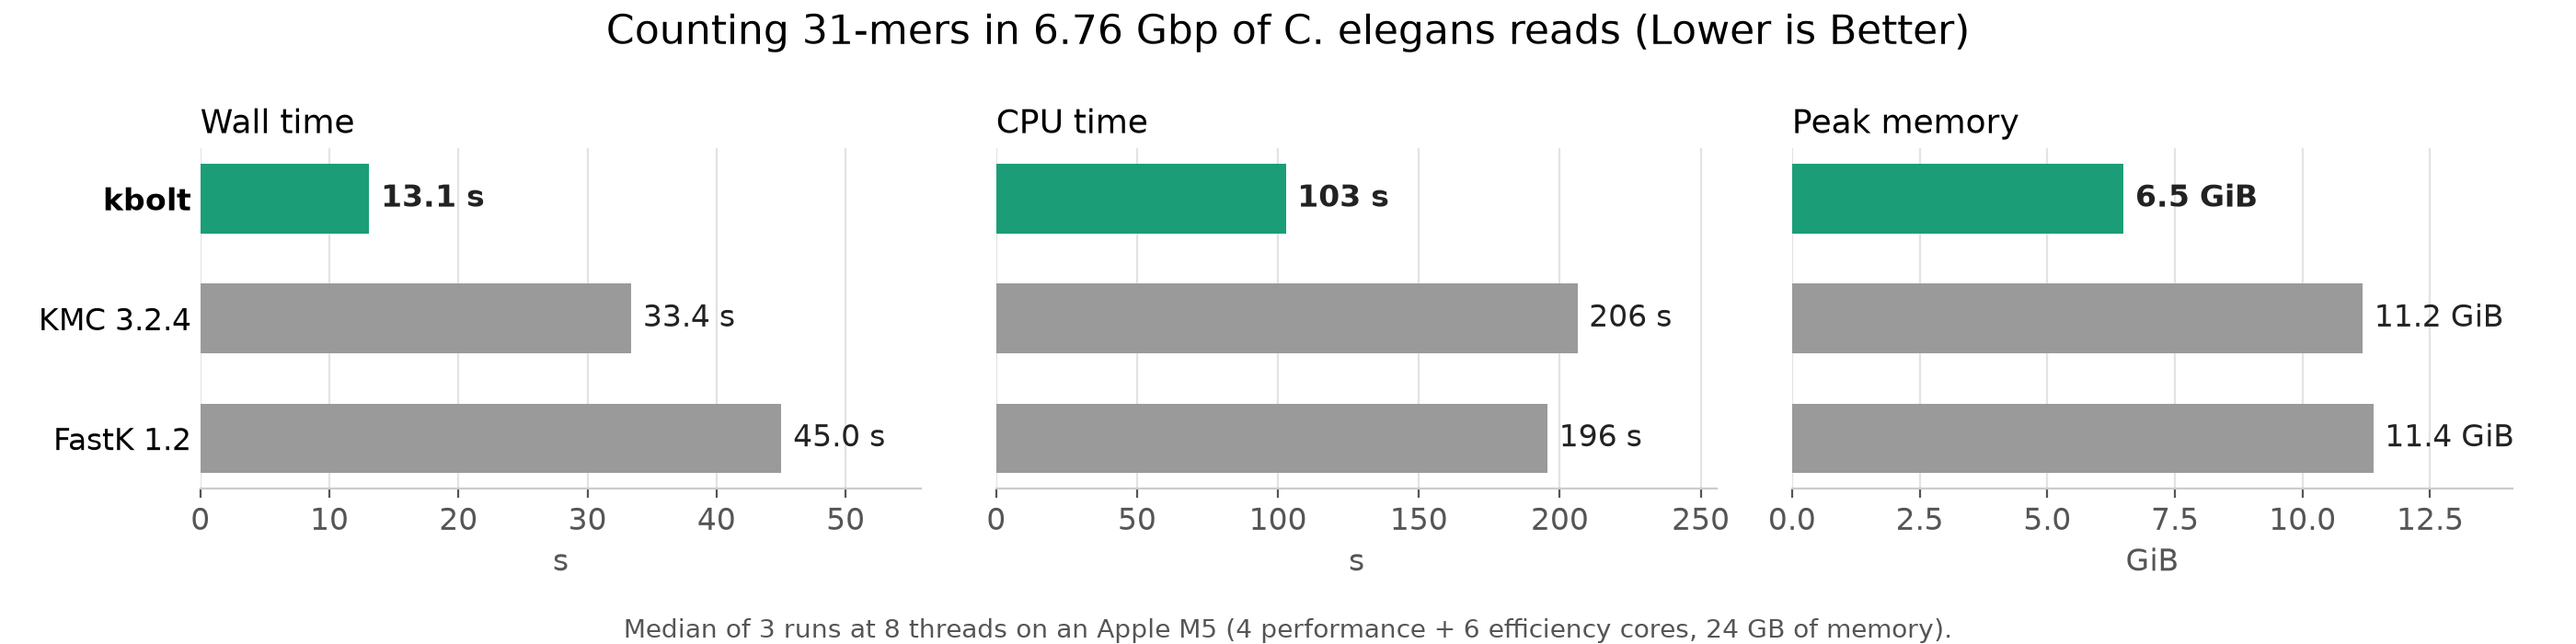
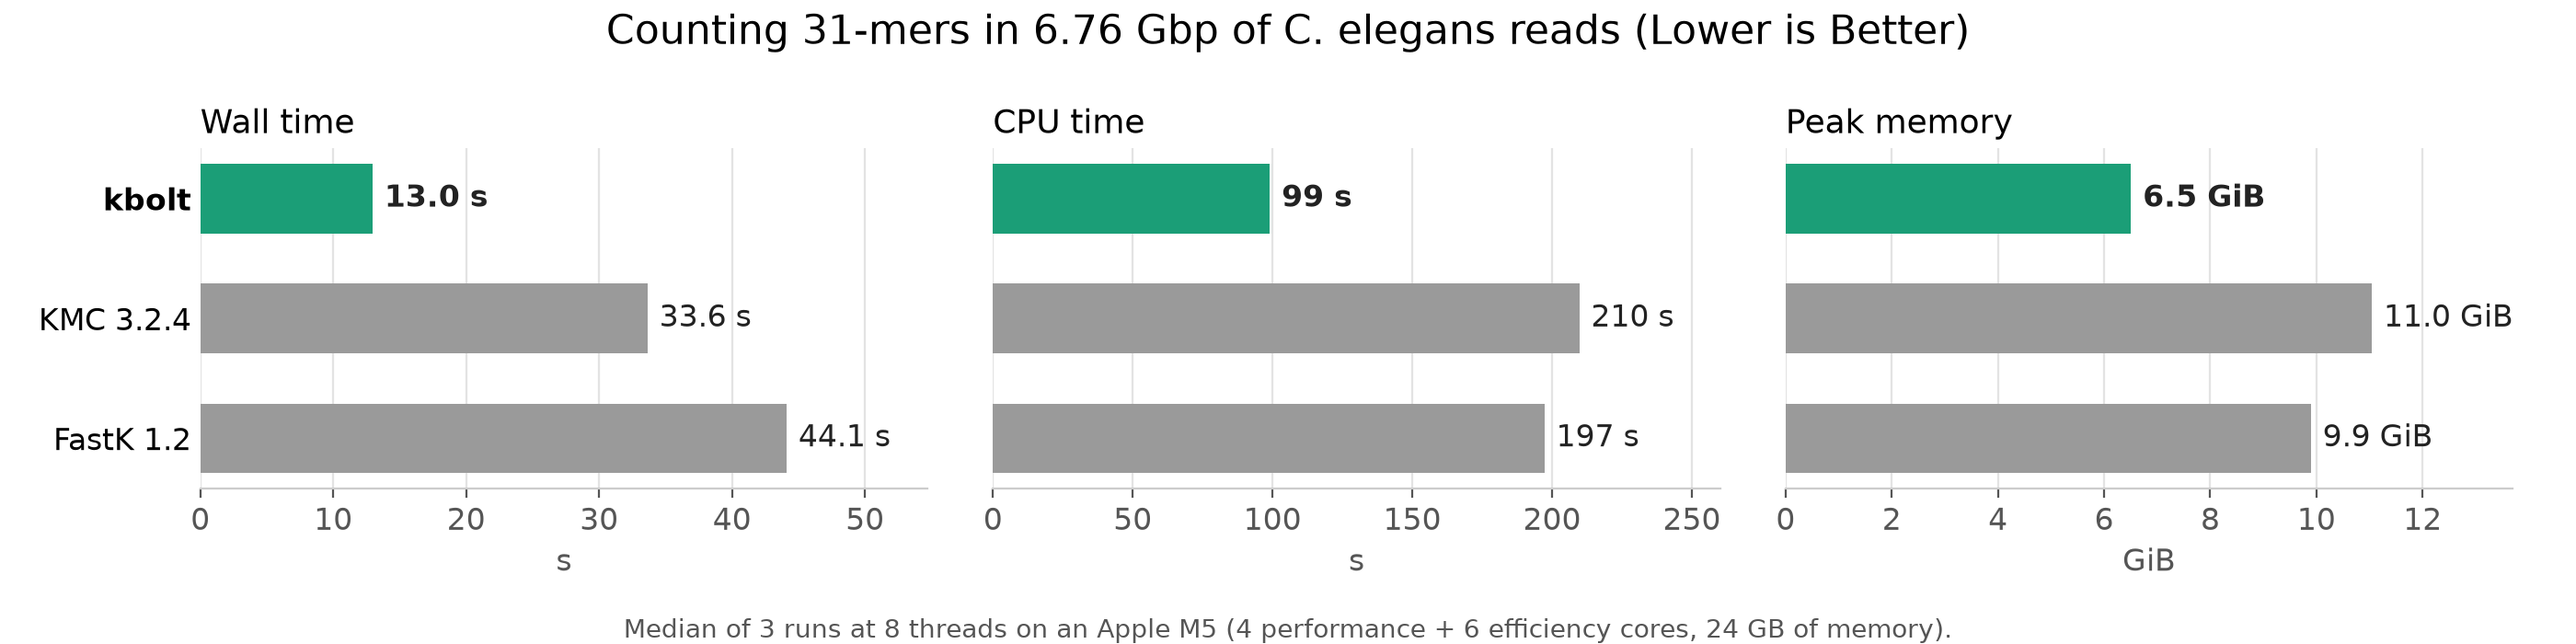
register check

diff --git a/src/parallel.rs b/src/parallel.rs
@@ -111,6 +111,8 @@ const GROUP_BITS: u32 = 6;
 /// take an eighth of the tables' memory. These bounds apply to that threshold,
 /// in updates: the lower one keeps small tables from being visited for a
 /// handful of updates, the upper one caps queued memory at 32 MiB per group.
+// Two updates per bucket took 8% less time on uncompressed reads for 12% more
+// memory, but no less on gzip input, where decompression sets the pace.
 // Tests shrink the thresholds so that small inputs reach every path.
 const MIN_PENDING: usize = if cfg!(test) { 64 } else { 4 * 1024 };
 const MAX_PENDING: usize = 4 * 1024 * 1024;
@@ -162,6 +164,8 @@ struct PackedUpdates {
     ends: Vec<usize>,
     /// Small groups found busy during a pass, to revisit at its end.
     busy: Vec<usize>,
+    /// The mixed key this worker buffered last.
+    previous: u64,
 }
 
 /// The queue length at which a group with these tables is applied, or zero
@@ -217,17 +221,23 @@ impl PackedShared {
         let entry_mask = u64::MAX >> (64 - self.entry_bits);
         let entry = mixed & entry_mask;
         let run = 1_u64 << self.entry_bits;
+        // Run aggregation handles hot keys and short motifs cheaply. A repeat
+        // is the same mixed key as the one before, a comparison of two
+        // registers; only then is the last entry of its buffer read back. That
+        // entry is the earlier occurrence unless the buffer has been handed
+        // on since, which the checks below cover.
+        let repeated = mixed == updates.previous;
+        updates.previous = mixed;
         let buffer = &mut updates.local[(mixed >> self.entry_bits) as usize];
-        // Run aggregation handles hot keys and short motifs cheaply.
-        match buffer.last_mut() {
-            Some(last)
-                if *last & entry_mask == entry
-                    && *last >> self.entry_bits < !entry_mask >> self.entry_bits =>
-            {
-                *last += run;
-            }
-            _ => buffer.push(run | entry),
+        if repeated
+            && let Some(last) = buffer.last_mut()
+            && *last & entry_mask == entry
+            && *last >> self.entry_bits < !entry_mask >> self.entry_bits
+        {
+            *last += run;
+            return;
         }
+        buffer.push(run | entry);
     }
 
     /// Hand this worker's buffered updates to their groups.

diff --git a/README.md b/README.md
@@ -17,12 +17,12 @@ of memory):
 
 | | Wall time | CPU time | Peak memory |
 |---|---:|---:|---:|
-| kbolt | **13.1 s** | 103 s | 6.5 GiB |
-| KMC | 33.4 s | 206 s | 11.2 GiB |
-| FastK | 45.0 s | 196 s | 11.4 GiB |
+| kbolt | **13.0 s** | 99 s | 6.5 GiB |
+| KMC | 33.6 s | 210 s | 11.0 GiB |
+| FastK | 44.1 s | 197 s | 9.9 GiB |
 
-kbolt is 2.5× faster than KMC and 3.4× faster than FastK, on about half the
-CPU time and under 60% of the memory. kbolt and KMC report identical counts.
+kbolt is 2.6× faster than KMC and 3.4× faster than FastK, on about half the
+CPU time and two thirds of the memory or less. kbolt and KMC report identical counts.
 
 Read sets whose k-mers do not fit in memory can be counted on disk with
 `--memory`, as KMC and FastK do. The same reads with every tool limited to
@@ -30,9 +30,9 @@ Read sets whose k-mers do not fit in memory can be counted on disk with
 
 | | Wall time | CPU time | Peak memory |
 |---|---:|---:|---:|
-| kbolt | **16.6 s** | 115 s | 1.4 GiB |
-| KMC | 35.3 s | 200 s | 1.9 GiB |
-| FastK | 44.5 s | 195 s | 4.2 GiB |
+| kbolt | **14.4 s** | 93 s | 1.6 GiB |
+| KMC | 34.4 s | 198 s | 1.9 GiB |
+| FastK | 43.9 s | 192 s | 4.2 GiB |
 
 The result is identical to counting in memory.
 
